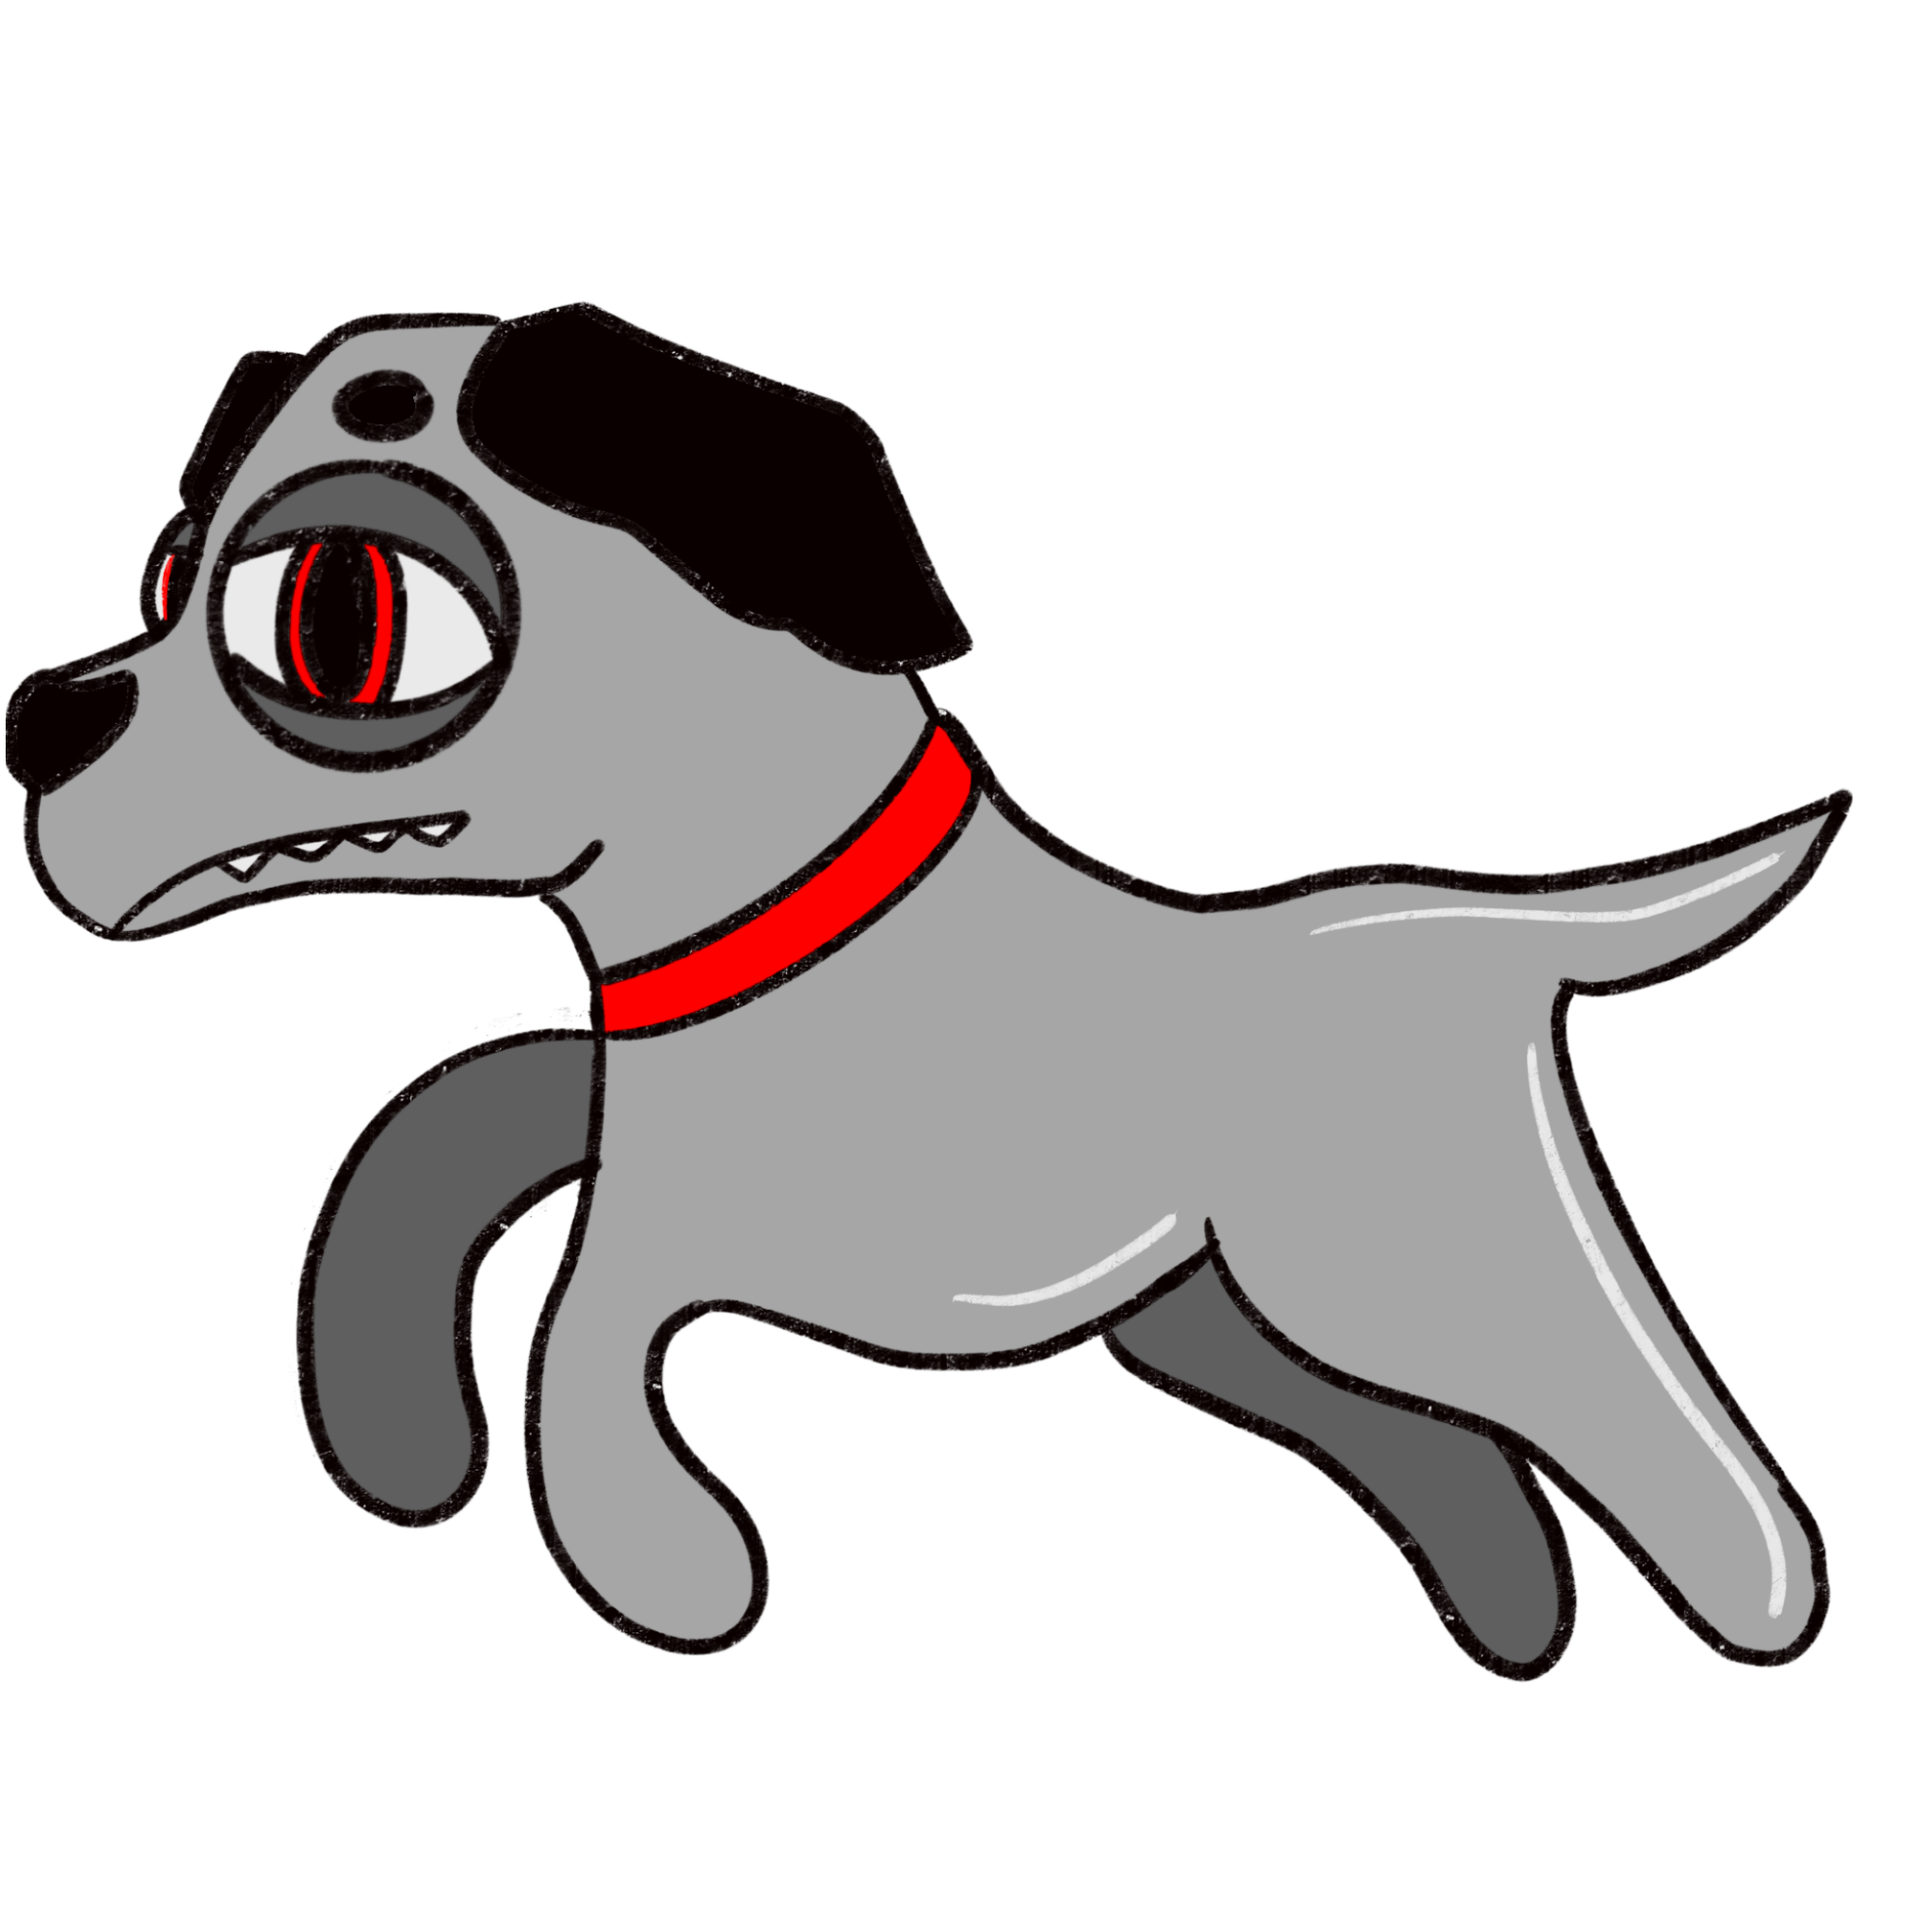
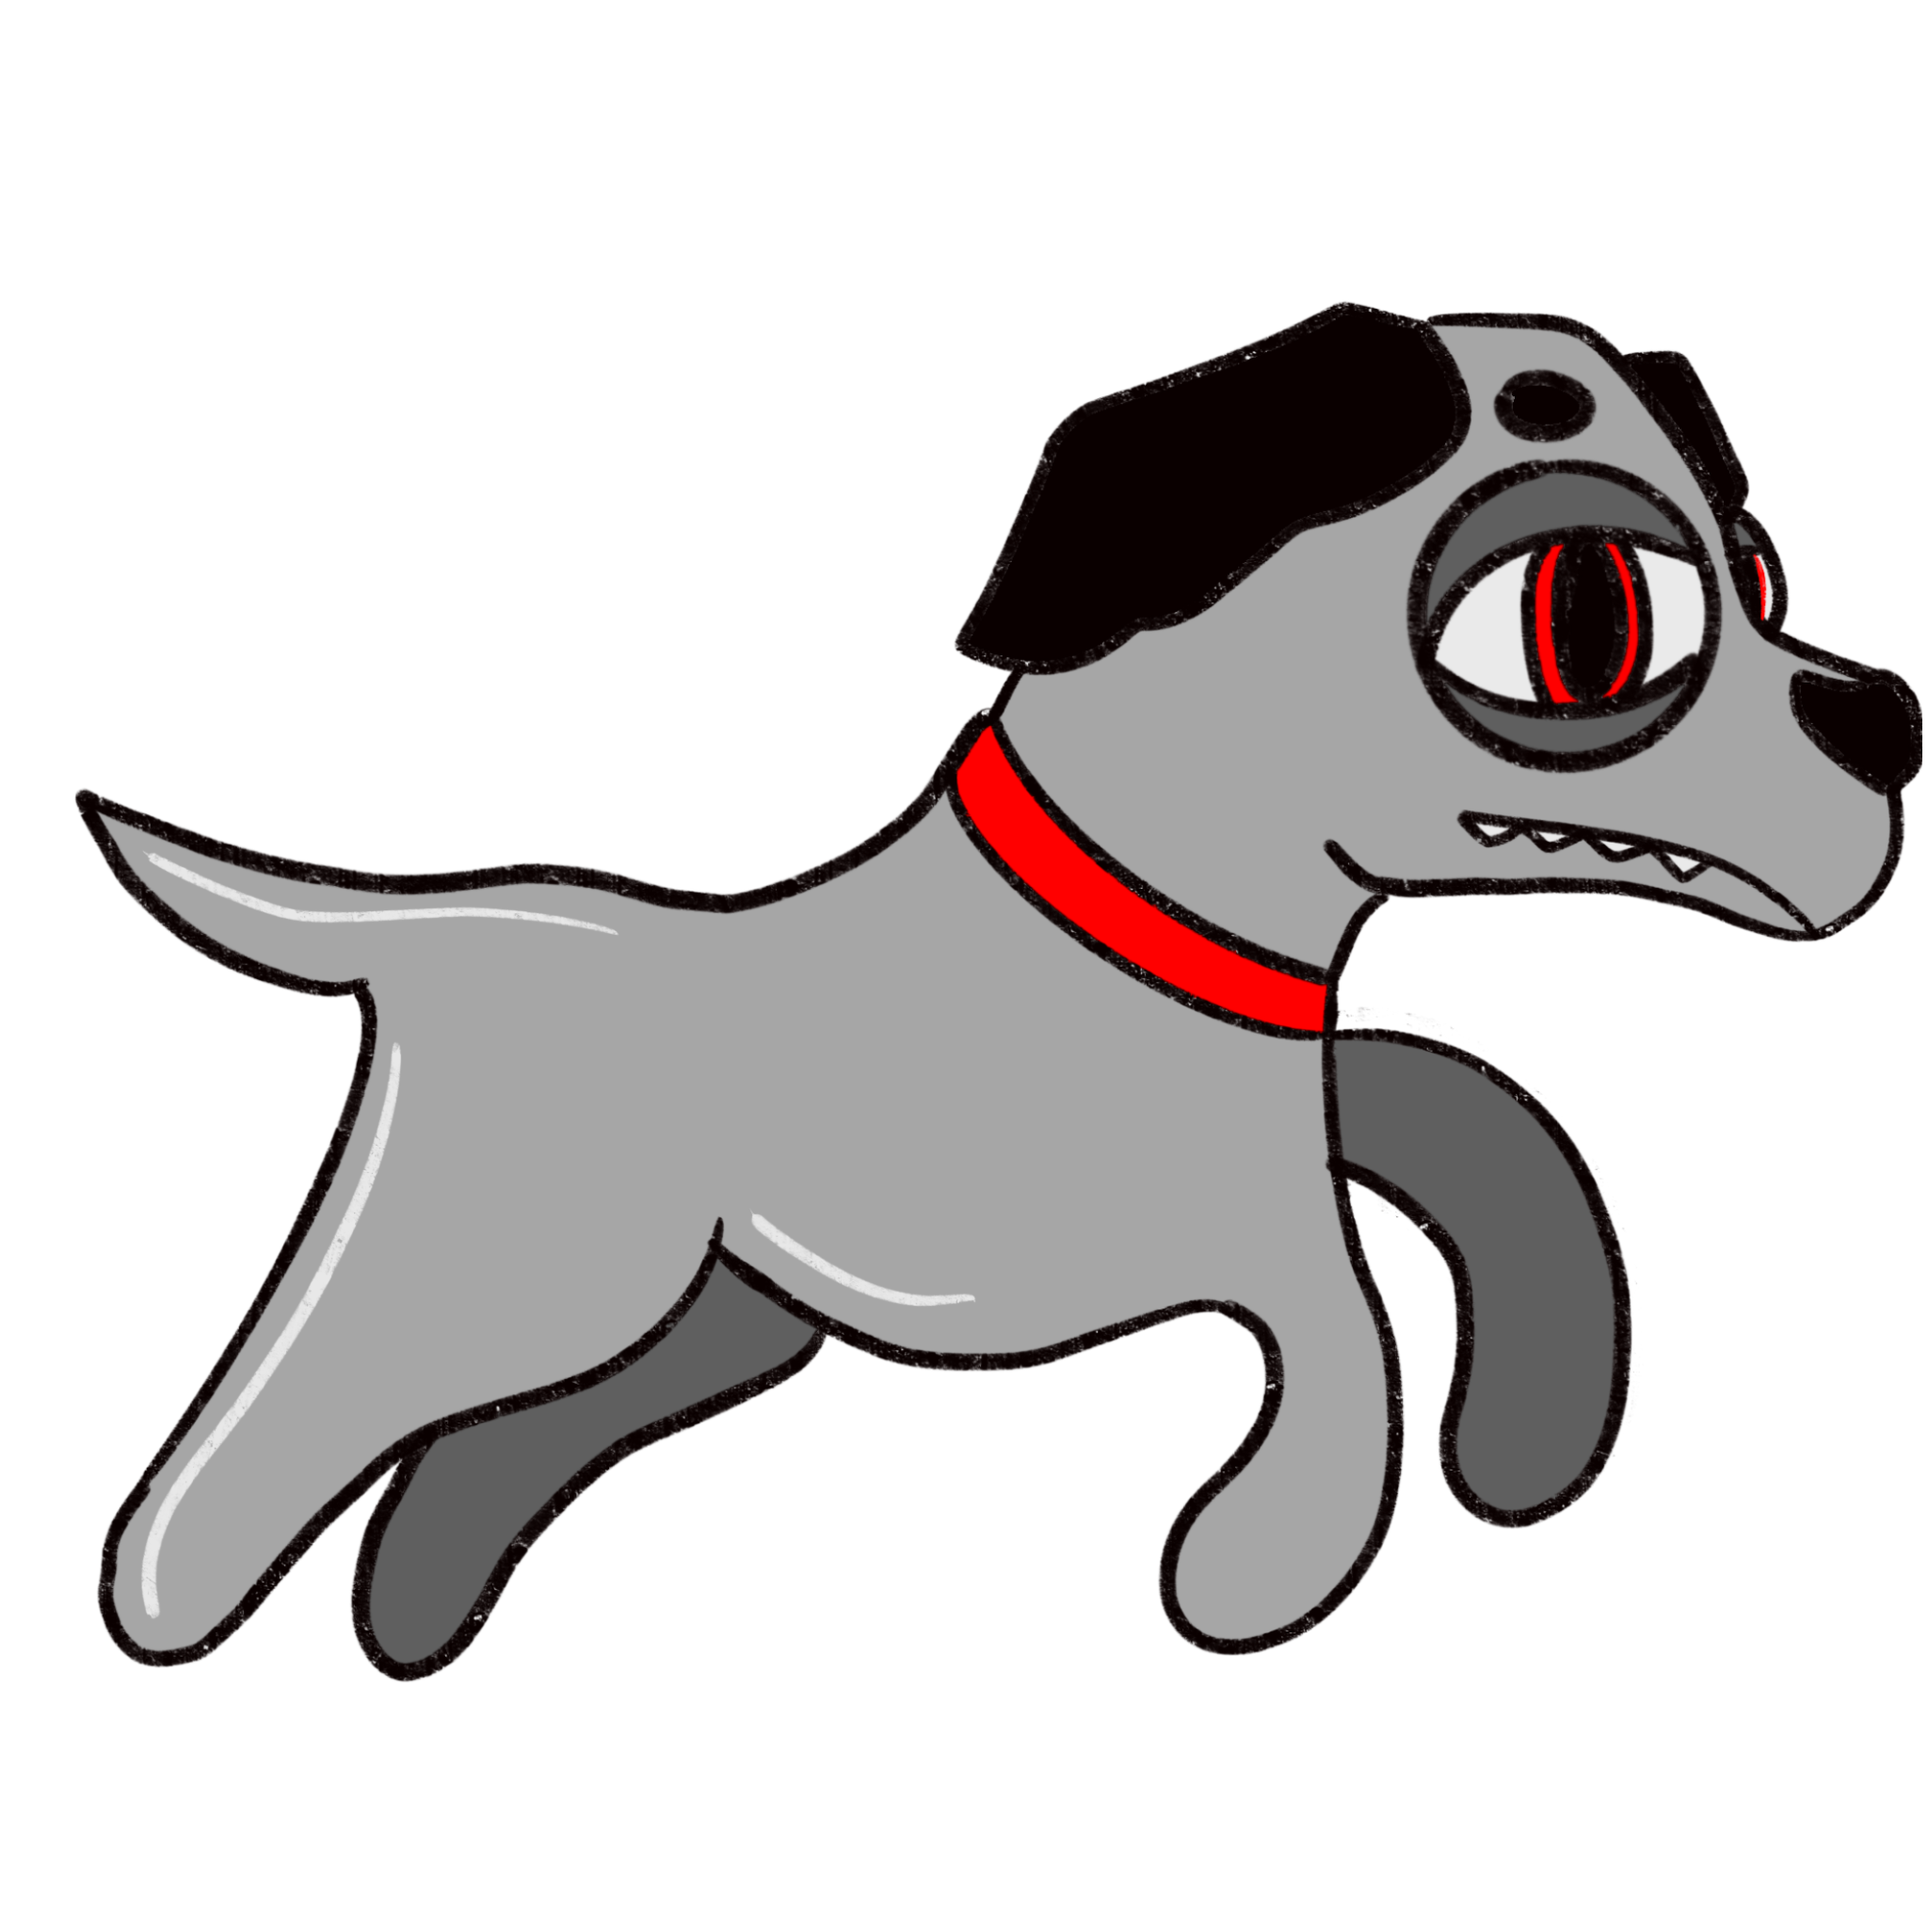
flip dog sprites

diff --git a/C_Sharp/World.cs b/C_Sharp/World.cs
@@ -255,7 +255,7 @@ public class World : Game
             {
                 e.Sprite.Draw(_spriteBatch);
                 //Used to show hitboxes
-                _spriteBatch.Draw(Content.Load<Texture2D>("hitboxDebug"), e.Hitbox, Color.White);
+                //_spriteBatch.Draw(Content.Load<Texture2D>("hitboxDebug"), e.Hitbox, Color.White);
             }
 
             foreach (Sprite s in _visualEffects)

diff --git a/C_Sharp/HandToHandEnemy.cs b/C_Sharp/HandToHandEnemy.cs
@@ -1,7 +1,6 @@
 using System;
 using System.Collections;
 using Microsoft.Xna.Framework;
-using Microsoft.Xna.Framework.Graphics;
 
 namespace Projet_Survivor.C_Sharp;
 
